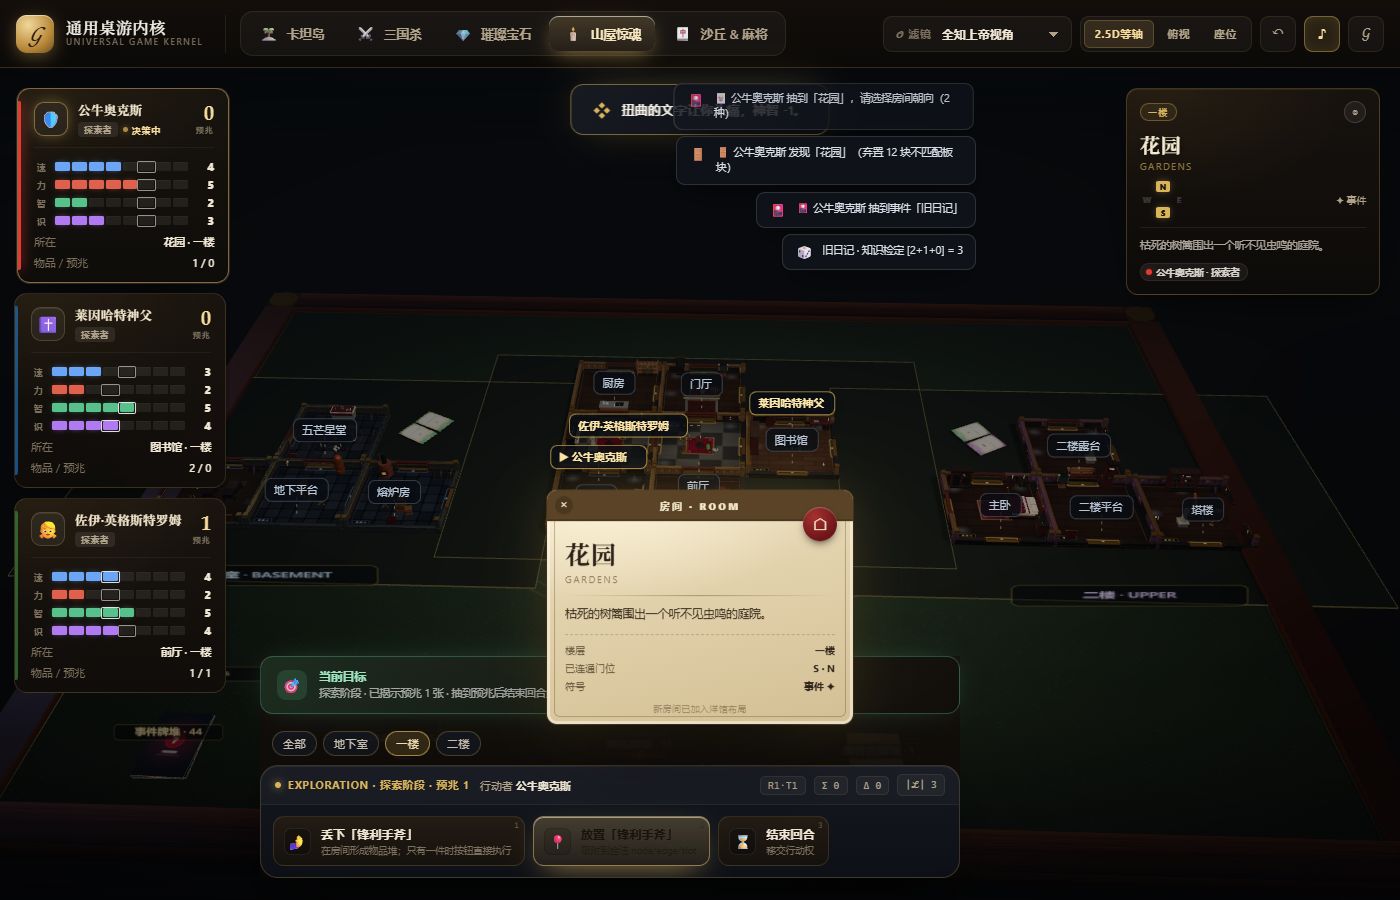
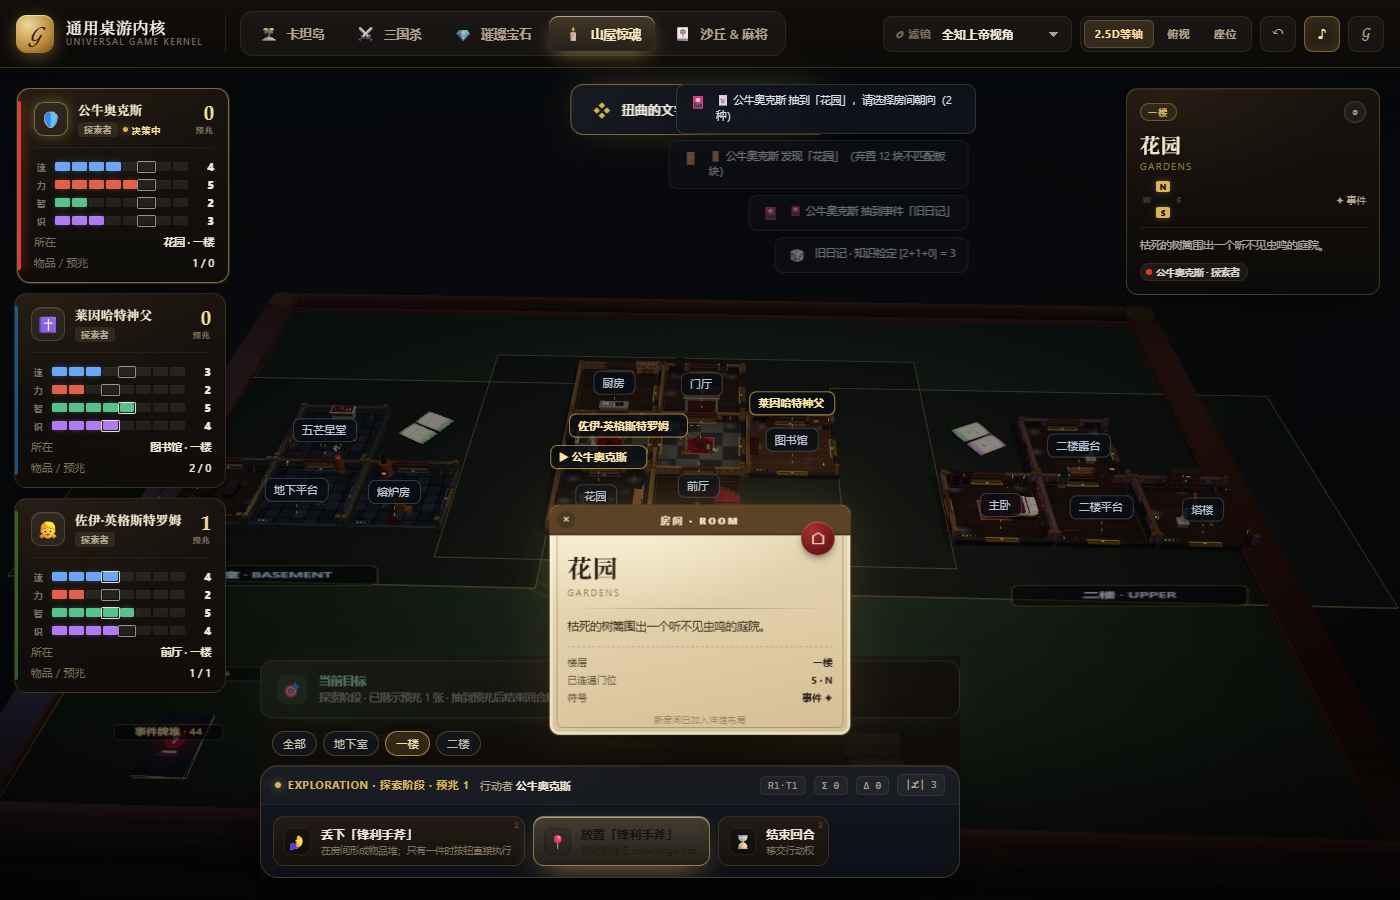
fix(layout): face satellite chairs toward the host table; document the 2.5D asset library
- satellite yaw was inverted for all four seat positions (chairs faced away)
- README section 9 documents the prop library, layout engine guarantees,
  the tile-footprint geometry constraint, and the gothic UI surfaces

Changed region(s): [[0.1843, 0.5289, 0.6143, 0.84], [0.4914, 0.0933, 0.6757, 0.2178], [0.5221, 0.2178, 0.7064, 0.3111]]

diff --git a/src/render/procedural/roomLayout.ts b/src/render/procedural/roomLayout.ts
@@ -436,11 +436,13 @@ export function layoutRoom(request: LayoutRequest): LayoutResult {
       const host = centrepiece;
       const offX = host.rect.w / 2 + spec.width / 2 + gap;
       const offZ = host.rect.d / 2 + spec.depth / 2 + gap;
+      // Satellite props are built facing +Z, so the yaw must turn their front
+      // toward the host: north seat faces +Z (yaw 0), west seat faces +X (π/2).
       const candidates = [
-        { x: host.x, z: host.z - offZ, yaw: Math.PI },
-        { x: host.x, z: host.z + offZ, yaw: 0 },
-        { x: host.x - offX, z: host.z, yaw: -Math.PI / 2 },
-        { x: host.x + offX, z: host.z, yaw: Math.PI / 2 }
+        { x: host.x, z: host.z - offZ, yaw: 0 },
+        { x: host.x, z: host.z + offZ, yaw: Math.PI },
+        { x: host.x - offX, z: host.z, yaw: Math.PI / 2 },
+        { x: host.x + offX, z: host.z, yaw: -Math.PI / 2 }
       ];
       // Shuffle deterministically so chairs do not always ring in the same order.
       const rot = Math.floor(rng() * candidates.length);

diff --git a/README.md b/README.md
@@ -225,7 +225,14 @@ src/ai/policy.ts          # Bot 接口与随机策略
 src/net/                  # 权威房间 + RFC6902 投影差分
 src/games/                # 五款夹具（setup + rules + hooks）
 src/render/               # Three.js 可视化调试器
+  procedural/             # 2.5D 洋馆资产库
+    materials.ts          #   共享 PBR 调色板（木/金属/石材/织物/自发光）
+    props.ts              #   45+ 件程序化家具与陈设（床/柜/书柜/实验台/石棺/熔炉/烛台…）
+    roomLayout.ts         #   门位感知布局引擎（门廊禁区 + AABB 互斥 + 连通性洪水填充）
+    roomTile.ts           #   房间壳体：墙纸/护墙板/踢脚/线脚/窗/门套/门槛 + 按材质合并
+    cardMesh.ts           #   做旧羊皮纸卡面与皮革烫金卡背
 src/ui/                   # HUD 与数学模型检查器
+  theme-gothic.css        # 山屋专用烛光/黄铜主题覆盖层
 docs/CORE.md              # 契约、扩展指南、路线图
 docs/ARCHITECTURE.md      # 分层架构、模块实现与调用链
 docs/BETRAYAL.md          # 山屋 44 房间/三剧本覆盖 + 内核缺陷清单
@@ -241,3 +248,58 @@ scripts/test-core.mjs     # Vite SSR 测试运行器
 - **规则实现与状态分离**：这是可序列化、可回放、可联网的前提。
 - **严格模式**：非法动作与不变量违例默认拒绝并保持状态不变，便于夹具开发时立刻暴露问题。
 - **夹具优先**：先让五种极端机制跑通，再抽象；不为单一游戏做特例。
+
+---
+
+## 9. 2.5D 洋馆资产库与布局引擎
+
+> 目标：让《山屋惊魂》的桌面读起来像一座被剖开的微缩洋馆，而不是一堆贴图方块。
+> 相关契约与回归方式见 **[docs/SIMULATOR-AUDIT.md](docs/SIMULATOR-AUDIT.md)**（§3.3.1 几何硬约束）。
+
+### 9.1 资产库（`src/render/procedural/props.ts`）
+
+每件陈设都是一个返回 `THREE.Group` 的构建器，约定「落地在 y=0、正面朝 +Z、背面贴墙」，
+由布局引擎负责旋转与落位。所有部件共享 `materials.ts` 的单例材质，因此房间可以按材质
+合并几何：一间房从 ~400 个 draw call 降到 ~12 个。
+
+| 类别 | 代表资产 |
+| --- | --- |
+| 卧室 | 四柱床（床柱/帷架/被褶/翻边床单）、半开衣柜（挂衣杆+衣物+叠放织物）、梳妆柜（倾斜镜+香水瓶）、摇篮、木马、玩具箱 |
+| 书斋 | 分层书柜（斜靠书/横堆/书立/胸像/卷轴）、写字台（抽屉+墨水瓶+烛台）、落地钟（钟摆+表盘）、立式钢琴、落地镜、地球仪 |
+| 起居 | 壁炉（炉膛辉光+壁炉架陈设）、沙发、扶手椅、边几、衣帽架 |
+| 餐饮 | 长餐桌（桌旗+烛台+餐位）、高背餐椅（面向桌心）、厨房操作台（水槽+陶器）、吊挂锅具、食品架 |
+| 实验 | 实验台（蒸馏装置/试管架/酒精灯）、手术台（束缚带/无影灯）、标本架（玻璃罐）、工作台（工具板/台钳） |
+| 神秘 | 石棺（象形纹带）、棺架、祭坛（圣布+仪式碗+烛台）、五芒星法阵、骨堆、颅骨堆、雕像、盔甲架 |
+| 地下 | 熔炉（炉膛/烟道/煤堆）、锅炉、铁笼、水洼、石笋、酒架、木桶组、箱堆 |
+| 大门 | 门厅双扇前门（石套+大理石过梁+铁铆钉+门环+锁梁） |
+| 壁面 | 肖像画、壁烛、织锦、蜘蛛网（角部专用） |
+
+### 9.2 布局引擎（`src/render/procedural/roomLayout.ts`）
+
+```
+门廊禁区 → 墙挂优先 → 中心件 → 卫星件（餐椅绕桌）→ 连通性校验
+```
+
+- **门廊禁区**：每扇门向内 0.58、宽 0.92 的走廊内禁止放任何实体，家具永不堵门；
+- **精确 AABB 互斥**：摆放前与已落位实体做矩形不相交测试（含 0.045 安全边距）；
+- **连通性洪水填充**：落位后从门格出发泛洪，必须仍能到达其余所有门格，否则回滚该件；
+- **确定性**：种子来自 `roomId + 名称 + 门位`，同一房间每次重建布局完全一致。
+
+`node scripts/probe-layout.mjs` 会把 47 个房间全部跑一遍并报告落位数、拒绝数与**门位冲突数（应为 0）**。
+
+### 9.3 几何硬约束与回归
+
+棋盘格距 2.86、板块边长 2.84，相邻板块净距仅 **0.02**。任何构件越过 `±1.42` 就会挤进邻块，
+并与邻块共面产生 **z-fighting 闪烁**。`node scripts/probe-overlap.mjs` 逐顶点换算世界坐标，
+断言所有房间的包围盒 `≤ ±1.42`——新增贴墙/贴角构件后必须跑一次。
+
+### 9.4 界面（复古哥特）
+
+| 界面 | 表现 |
+| --- | --- |
+| 角色卡 | 速/力/智/识 四条 0..8 阶梯，实心=当前值，空心框=印刷初值 |
+| 卡牌详情 | 做旧羊皮纸浮层：牌型色带、火漆印章、英文副标题、事实表 |
+| 房间档案 | 楼层徽章、门位罗盘、印刷描述、在场者、`◎` 镜头聚焦 |
+| 房间揭示 | 探索出新板块时居中弹出，配入场动画，7s 自动收起 |
+| 作祟过场 | 全屏暗红晕影 + `HAUNT No.xx` + 巨号标题 + 背叛者 + 角色化目标 |
+| 悬停提示 | 光标所指对象与可执行动作（房间/门/卡牌/骰子） |
